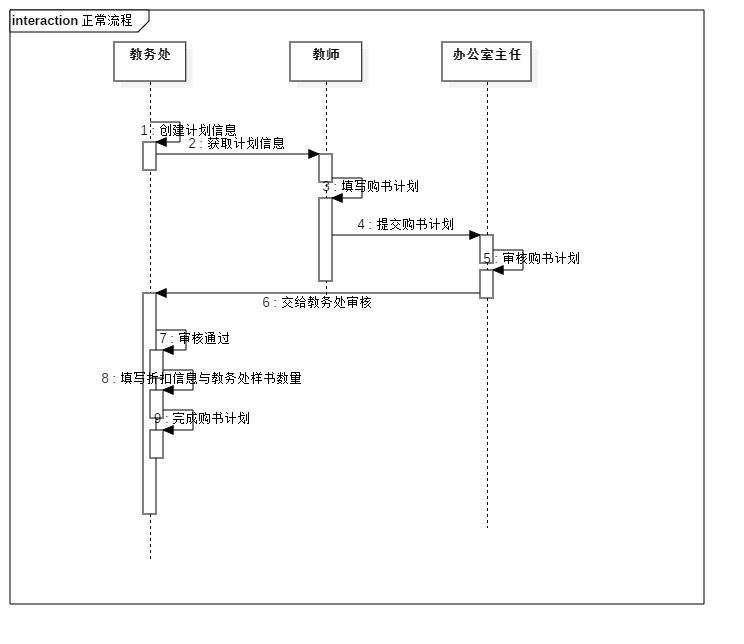
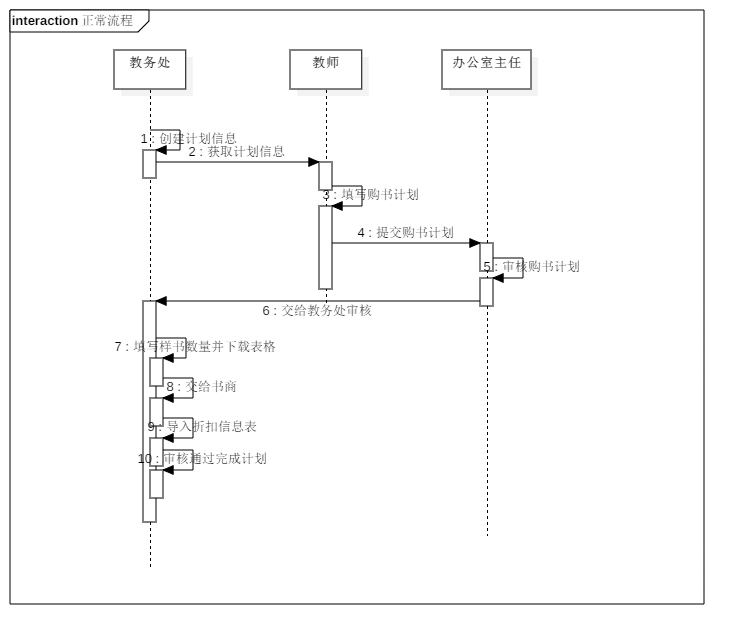
init

diff --git a/README.md b/README.md
@@ -30,10 +30,18 @@
 3. 教务处可以对某本书（下文用书A代替）进行驳回操作（驳回时必须填写驳回原因），该操作导致书A返回至“办公室主任”处，并且书A在教师购书列表的状态更改为“教务处驳回”。
 4. 教务处可以对书籍进行一键审核通过操作（该操作不会影响已经驳回的书籍状态）。
 5. 审核通过的书籍将在“折扣与样书”页面填写折扣信息和教务处订购样书数量信息。
+6. 教务处可以通过单选按钮选择全部，未定书，已订书进行书籍过滤筛选。
+7. 教务处可以填写样书数量信息。
+8. 样书填写时将会提示样书是否以前订购过。
+9. 样书填写完成后下载表格文件交给书商审核。
+10. 书商审核通过后导入折扣信息。
+11. 完成计划。
 
 ![](./流程图/教务处：我的审核.png)
 
 **教师购书列表表头**：
+
+- 课程代码
 
 - 课程名称
 - 书籍编号
@@ -68,74 +76,22 @@
 - 每条数据展示：
   - 计划所属学年学期学院教育层次
   - 计划当前状态（已创建/审核中/已完成）
-  - 编辑该计划（已完成的计划无法编辑）
   - 下载上传该计划的Excel文件
   - 删除某个计划
   - 计划创建时间/完成时间
 
 **数据展示细节**：
 
-- 编辑该计划
-  1. 进入编辑页面，可以更改计划的元数据（学年；学期；学院；教育层次【本科/高职等等】）。
-  2. **无法更改模板excel信息（可以将计划删除重新创建）。**
-  3. 保存后更改立即生效。
-
 - 删除某个计划
   1. 提示确认删除计划（**如果计划的状态是审核中则再增加一次删除警告提醒**）。
   2. 确认删除后即刻删除该计划。
-
-## 折扣管理
-
-> 管理“折扣与样书”功能的折扣信息。对折扣进行增，删，查
-
-- 教务处可以查看当前创建的折扣列表
-
-- 可以对某个折扣条目进行删除操作
-
-  删除时将进行删除确认
-
-- 新增某个折扣条目
-
-  新增的折扣信息必须是**整数**或**小数**
-
-  重复的折扣信息将不予新增
-
-## 折扣与样书
-
-> 在“我的审核”中审核通过后进行折扣和教务处购买样书的数量进行登记
-
-1. 教务处可以通过下拉列表选择某个购书计划（下拉列表中购书计划只展示状态是未完成的），默认展示最新创建的购书计划。
-2. 选择某个购书计划后，将展示教务处审核通过的购书信息。
-3. 可以设置某本书的**教务处样书数量**
-4. 可以设置某本书的**折扣信息**（提供下拉列表，下拉列表数据通过“折扣管理”进行管理）
-5. 可以批量设置某些书的折扣信息
-6. 信息填写完成后进行提交操作
-
-![](./流程图/教务处：折扣与样书.png)
-
-**展示细节**：
-
-- 分页：
-
-  默认10页每条，可更改。提供直接跳转到某页功能。
-
-- 展示列表表头：
-
-  - 课程名称
-  - 书籍编号
-  - 书籍名称
-  - 教材类别
-  - 出版社
-  - 作者
-  - 价格
-  - 样书数量
-  - 获奖信息和丛书名称
-  - 出版日期
-  - 教材计划征订单提交人联系电话
-  - 折扣信息
-  - 教务处样书数量
+  3. 已完成的计划无法删除。
 
 ## 导出表格
+
+- 订书比
+- 出版社统计数量
+- 考试/考察/总体订书率
 
 ![](./导出图/a.png)
 
@@ -167,6 +123,8 @@
 ![](./流程图/办公室主任：我的审核.png)
 
 **教师购书列表表头**：
+
+- 课程代码
 
 - 课程名称
 - 书籍编号
@@ -212,6 +170,8 @@
 
 - 展示列表表头：
 
+  - 课程代码
+  
   - 课程名称
   - 书籍编号
   - 书籍名称
@@ -227,11 +187,13 @@
 
 ## 填写购书信息
 
-1. 教师选择课程名称，是否购书。
-2. 如果选择无需购书，填写原因，表单其他项目均无需填写。
-3. 教师通过表单的形式填写书籍信息。
-4. 教师可以重复选择某门课程的书籍（即ISBN如果不相同则认为该门课程有多本书籍）。
-5. 当ISBN和课程名称重复时将不予提交。
+1. 教师通过下拉列表选择执行计划（未完成的执行计划）。
+2. 教师可以选择下载的执行计划。
+3. 教师选择课程名称，是否购书。
+4. 如果选择无需购书，填写原因，表单其他项目均无需填写。
+5. 教师通过表单的形式填写书籍信息。
+6. 教师可以重复选择某门课程的书籍（即ISBN如果不相同则认为该门课程有多本书籍）。
+7. 当ISBN和课程名称重复时将不予提交。
 
 ![](./流程图/教师：填写购书信息.png)
 
@@ -239,7 +201,7 @@
 
 - 是否购书（选择“否”必须填写原因）
 
-- 课程名称
+- 课程代码-课程名称
 - 书籍编号
 - 书籍名称
 - 教材类别
